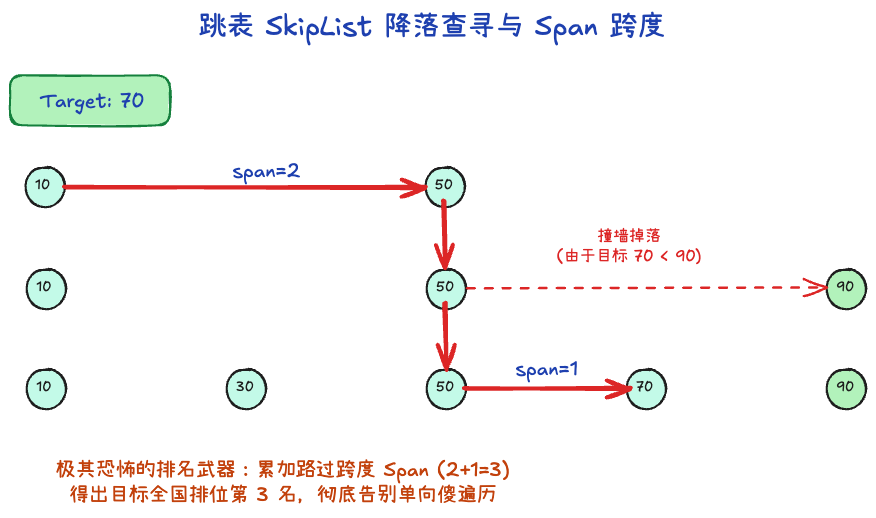
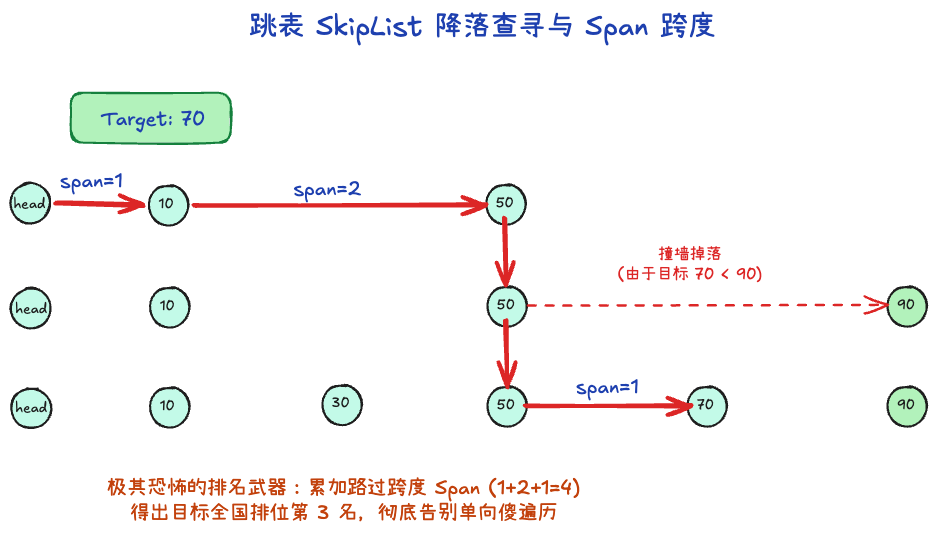
refactor: remove unused files and associated references

diff --git a/Article/Redis/Excalidraw/2/3.2_SkipList降落查询图.md b/Article/Redis/Excalidraw/2/3.2_SkipList降落查询图.md
@@ -38,106 +38,136 @@ span=2 ^3U63MR2k
 
 span=1 ^ntI3lFtC
 
-极其恐怖的排名武器：累加路过跨度 Span (2+1=3)
+极其恐怖的排名武器：累加路过跨度 Span (1+2+1=4)
 得出目标全国排位第 3 名，彻底告别单向傻遍历 ^yMOXr4AZ
+
+head ^3d1y5vSi
+
+head ^UX9u6QMk
+
+head ^6PKd5kdo
+
+span=1 ^rVGxUQuh
 
 %%
 ## Drawing
 ```compressed-json
[2 lines of base64/hex data omitted]
 
[2 lines of base64/hex data omitted]
 
[2 lines of base64/hex data omitted]
 
[2 lines of base64/hex data omitted]
 
[2 lines of base64/hex data omitted]
 
[2 lines of base64/hex data omitted]
 
[2 lines of base64/hex data omitted]
 
[2 lines of base64/hex data omitted]
 
[2 lines of base64/hex data omitted]
 
[2 lines of base64/hex data omitted]
 
[2 lines of base64/hex data omitted]
 
[2 lines of base64/hex data omitted]
 
[2 lines of base64/hex data omitted]
 
[2 lines of base64/hex data omitted]
 
[2 lines of base64/hex data omitted]
 
[2 lines of base64/hex data omitted]
 
[2 lines of base64/hex data omitted]
 
[2 lines of base64/hex data omitted]
 
[2 lines of base64/hex data omitted]
 
[2 lines of base64/hex data omitted]
 
[2 lines of base64/hex data omitted]
 
[2 lines of base64/hex data omitted]
 
[2 lines of base64/hex data omitted]
 
[2 lines of base64/hex data omitted]
 
[2 lines of base64/hex data omitted]
 
[2 lines of base64/hex data omitted]
 
[2 lines of base64/hex data omitted]
 
[2 lines of base64/hex data omitted]
 
[2 lines of base64/hex data omitted]
 
[2 lines of base64/hex data omitted]
 
[2 lines of base64/hex data omitted]
 
[2 lines of base64/hex data omitted]
 
[2 lines of base64/hex data omitted]
 
[2 lines of base64/hex data omitted]
 
[2 lines of base64/hex data omitted]
 
[2 lines of base64/hex data omitted]
 
[2 lines of base64/hex data omitted]
 
[2 lines of base64/hex data omitted]
 
[2 lines of base64/hex data omitted]
 
[2 lines of base64/hex data omitted]
 
[2 lines of base64/hex data omitted]
 
[2 lines of base64/hex data omitted]
 
[2 lines of base64/hex data omitted]
 
[2 lines of base64/hex data omitted]
 
[2 lines of base64/hex data omitted]
 
[2 lines of base64/hex data omitted]
 
[2 lines of base64/hex data omitted]
 
[2 lines of base64/hex data omitted]
+
[1 lines of base64/hex data omitted]
+
[1 lines of base64/hex data omitted]
+
[1 lines of base64/hex data omitted]
+
[1 lines of base64/hex data omitted]
+
[1 lines of base64/hex data omitted]
+
[1 lines of base64/hex data omitted]
+
[1 lines of base64/hex data omitted]
+
[1 lines of base64/hex data omitted]
+
[1 lines of base64/hex data omitted]
+
[1 lines of base64/hex data omitted]
+
+gaiZijBXBAxqzqaKEAA=
 ```
 %%

diff --git a/Article/Redis/2.2-跳表.md b/Article/Redis/2.2-跳表.md
@@ -56,12 +56,12 @@ typedef struct zskiplistNode {
 
 ![](Excalidraw/2/3.2_SkipList降落查询图.png)
 
-跳表之所以叫跳表，就是因为它能“跳”。假设你要找分数为 80 的玩家：
+跳表之所以叫跳表，就是因为它能“跳”。假设你要找分数为 70 的玩家：
 1. 它从最顶层的“快车道”（最高索引）头节点出发，看向右边。
-2. **继续开**：如果右边节点分数 `< 80`，就顺着快车道大胆往右走。
-3. **往下掉**：如果右边节点分数 `>= 80`（或者开到头了无路可走），说明走过了，这时候原地**往下掉一层**，进入相对慢一点的车道。
+2. **继续开**：如果右边节点分数 `< 70`，就顺着快车道大胆往右走。
+3. **往下掉**：如果右边节点分数 `>= 70`（或者开到头了无路可走），说明走过了，这时候原地**往下掉一层**，进入相对慢一点的车道。
 4. 如此反复向右、向下沉降，最终一定会降落到底层的单向链表里，精准锁定目标。
-> 时间复杂度：因为每次掉层相当于砍掉一大部分无用节点，查询效率等同于二分查找的 $O(\log n)$。
+> 时间复杂度：因为每次掉层相当于砍掉一大部分无用节点，查询效率等同于二分查找的 $O(\log n)$
 
 ### 2. 增 (Insert)：原地抛硬币决定层高
 

diff --git a/Article/Redis/2.1-连续内存列表.md b/Article/Redis/2.1-连续内存列表.md
@@ -79,7 +79,9 @@ Redis 给每个 `entry` 设计了极度精妙的·内部包裹结构：
 既然倒序遍历需要往回找长度，ListPack 干脆就把自己的长度 `self_length` 像尾巴一样拖在自己的最后面。
 
 想往回跳？没问题，你顺着指针往回看一个字节，那就是前一个节点的“尾巴”，它清楚地写着前任的总长，你照着数字一跳就跨过去了。
-这样一来，无论哪个节点因为修改而变胖，**它的长度变化只会记在它自己本人的尾巴上**，绝对不会引起后一个节点的数据变动。一次修改只会触发一次局部的内存拷贝，绝对不可能再引发多米诺骨牌式的全员扩容！
+这样一来，无论哪个节点因为修改而变胖，**它的长度变化只会记在它自己本人的尾巴上**，绝对不会引起后一个节点的数据变动。
+
+**注意**：虽然节点 A 变长仍会导致后续节点 B、C 在内存中整体后移（位移），但因为 B 内部不存储 A 的信息，所以 B 自身的**总长度（字节数）**并不会改变。这就彻底切断了从 A 到 B、再从 B 到 C 的“扩容连锁反应”。一次修改只会触发一次局部的内存拷贝，绝对不可能再引发多米诺骨牌式的全员扩容！
 
 ---
 
